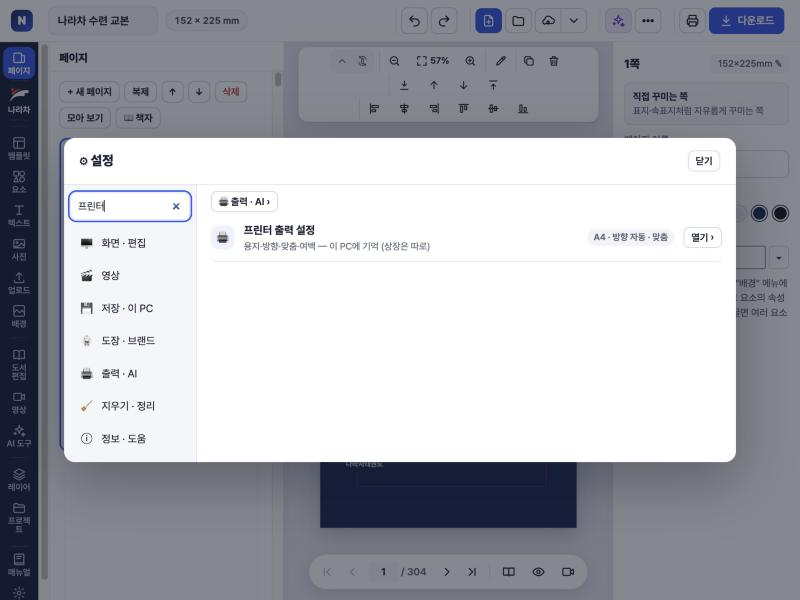
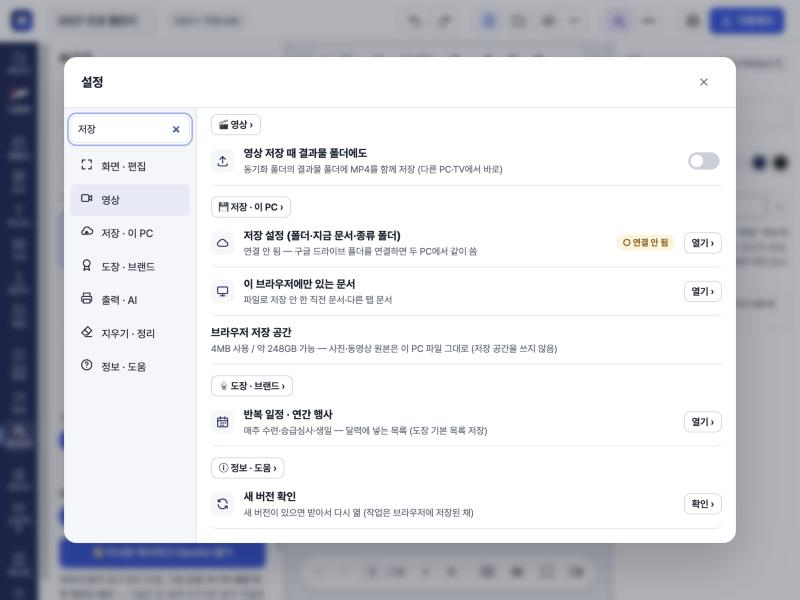
매뉴얼 그림 새 화면으로(AI 도구 탭·설정 찾기), 작업인계 (20261124.1041)

diff --git a/manual.js b/manual.js
@@ -15,7 +15,7 @@ window.NC_MANUAL = [
       { t: '내 PC에 맞게 설정', d: '세로 메뉴 맨 아래 <b>⚙ 설정</b>에서 이 PC 이름, 동기화 폴더, 안내선·눈금자, 영상 보기 방식 등을 한곳에서 바꿉니다. 바꾸면 바로 적용됩니다.', img: 'm18-settings.jpg',
         marks: [[20.6, 43, '설정 분류'], [78.5, 38.2, '이 PC 이름 (예: 도장 PC)'], [82.8, 46.8, '동기화 폴더 — 두 PC에서 같이 쓰기'], [82.8, 55.9, '버전 기록 — 예전 상태 되살리기']], go: [['settings', '설정 열기']] },
       { t: '⚙ 설정 — 찾기·지금 상태·줄 누르기', d: '세로 메뉴 맨 아래 <b>⚙ 설정</b>. 왼쪽 위 <b>🔍 설정 찾기</b>에 「프린터」「자석」「저장」처럼 쓰면 모든 칸에서 맞는 줄만 모아 보여 줍니다. 줄마다 그림과 <b>지금 상태</b>(● 연결됨·○ 연결 안 됨·A4 · 방향 자동 · 맞춤 등)가 붙어 있고, <b>줄 어디를 눌러도</b> 열립니다. 도움말·매뉴얼·도장 정보·출력 설정 같은 창을 열었다 닫으면 <b>설정의 같은 칸으로 돌아옵니다</b>. 마지막으로 본 칸을 기억하고, ↑↓ 키로 칸을 옮깁니다. 저장 설정·AI 설정·도장 정보·반복 일정·공휴일·출력 창 맨 위에는 <b>📍 지금</b> 줄이 있어 지금 어떻게 되어 있는지 보이고, <b>⚠</b>가 뜨면 아직 저장·적용하지 않은 변경이 있다는 뜻입니다(그대로 닫으려 하면 한 번 묻습니다). 화면이 헝클어지면 화면·편집 칸의 <b>↩ 화면 설정 모두 처음대로</b>(문서는 그대로).', img: 'm73-settings-find.jpg',
-        marks: [[16, 34.3, '설정 찾기'], [50, 39.7, '찾은 줄 — 눌러서 열기'], [78.8, 39.7, '지금 상태']], go: [['settings', '설정 열기']] }
+        marks: [[16.3, 21.6, '설정 찾기'], [50, 40.5, '찾은 줄 — 눌러서 열기'], [80.5, 40.3, '지금 상태'], [88, 13.5, '닫기 ×']], go: [['settings', '설정 열기']] }
     ] },
   { id: 'cert', icon: '🏅', title: '측정·심사 뒤 상장 만들고 출력하기', when: '측정·심사 뒤', sum: '관리 프로그램의 측정 기록으로 향상왕 상장을 한꺼번에 만들고, A4 상장 용지에 출력합니다.',
     steps: [
@@ -192,8 +192,8 @@ window.NC_MANUAL = [
     ] },
   { id: 'aiquick', icon: '✨', title: 'AI로 필요한 부분만 빠르게 (그림·스티커·아이콘·PPT 배경·글 다듬기)', when: '그림·요소가 필요할 때', sum: 'AI가 디자인 전체를 대신하지 않고, 그림·스티커·아이콘·PPT 배경·발표자료 개요·글 다듬기처럼 필요한 부분만 빠르게 만들어 후보로 보여 줍니다. 고르면 바로 넣고, 마음에 안 들면 Ctrl+Z.',
     steps: [
-      { t: '「AI 도구」 — 무엇을 만들까요?', d: '세로 메뉴 <b>AI 도구</b>를 누르면 한 화면에서 고릅니다: 🖼 <b>그림</b>(그림체·모양 고르기) · 🐧 <b>라차</b>(동작 고르기) · ✨ <b>스티커</b>(투명 바탕 4장) · 🔷 <b>아이콘</b>(선 아이콘 8개 — 가장 빠름) · 🎞 <b>PPT 배경</b>(16:9, 왼쪽에 글자 자리) · 📊 <b>발표자료</b>. 한 줄로 쓰고 큰 단추를 누릅니다. 태권도 그림은 늘 「태권도 V깃 도복·유급자 빨강/검정 깃·글자·로고 없음」 원칙이 지시문에 들어갑니다. 예전 화면(그림 스튜디오·인성 문구·AI와 대화·AI 설정)은 아래 「더보기」에 있습니다.', img: 'm74-ai-panel.jpg',
-        marks: [[20.8, 30, '무엇을 만들지 고르기'], [20.8, 46, '한 줄로 쓰기'], [20, 58.3, '그림체'], [20.6, 70.8, '모양(정사각·세로·가로)'], [20.8, 77, '만들기 / 지시문 복사'], [20.8, 91.7, '더보기']], go: [['aitools', 'AI 도구 열기']] },
+      { t: '「AI 도구」 — 무엇을 만들까요?', d: '세로 메뉴 <b>AI 도구</b>를 누르면 한 화면에서 고릅니다: 🖼 <b>그림</b>(그림체·모양 고르기) · 🐧 <b>라차</b>(동작 고르기) · ✨ <b>스티커</b>(투명 바탕 4장) · 🔷 <b>아이콘</b>(선 아이콘 8개 — 가장 빠름) · 🎞 <b>PPT 배경</b>(16:9, 왼쪽에 글자 자리) · 📊 <b>발표자료</b>. 한 줄로 쓰고 큰 단추를 누릅니다. 태권도 그림은 늘 「태권도 V깃 도복·유급자 빨강/검정 깃·글자·로고 없음」 원칙이 지시문에 들어갑니다. 패널 위 탭으로 <b>✨ 만들기</b>와 <b>💬 AI와 대화</b>를 바꾸고, 그 아래 줄에 🎨 그림 스튜디오 · 🐧 라차 동작 · 🖌 이미지 편집기 · ⚙ AI 설정이 있습니다(오른쪽 위 「AI 도우미」 단추도 이 패널을 엶).', img: 'm74-ai-panel.jpg',
+        marks: [[20.3, 16, '만들기 · AI와 대화 탭'], [20.3, 23.2, '스튜디오·라차·편집기·설정'], [20.3, 45.2, '무엇을 만들지 고르기'], [20.3, 61.4, '한 줄로 쓰기'], [20.3, 75.6, '그림체'], [20.3, 86.1, '모양'], [20.3, 92.1, '만들기 / 지시문 복사']], go: [['aitools', 'AI 도구 열기']] },
       { t: '채팅 요금제로 쓰기 — 답은 ⌘V 한 번', d: '처음 설정(채팅 요금제)에서는 큰 단추가 <b>「📋 지시문 복사하고 Gemini/Claude 열기」</b>입니다. 열린 채팅 칸에 ⌘V로 붙여 넣고 보낸 뒤, 답(그림 또는 글)을 복사해 <b>공방 아무 데서나 ⌘V</b> 하면 됩니다 — 붙여 넣을 칸을 찾을 필요가 없어요. 그림·스티커는 한 장에 4가지로 받아 <b>저절로 4장으로 잘라</b> 후보로 보여 주고, 스티커는 흰 바탕도 지웁니다. 오른쪽 아래 <b>작업 칸</b>에 「채팅 답을 기다려요 / 만드는 중… / ✅ 도착」이 보이고, 기다리는 동안 편집은 계속하셔도 됩니다. 후보를 누르면 쪽에 넣고, <b>Shift+누르기·길게 누르기</b>는 지금 쪽 배경으로 깝니다. API 키를 넣어 두면(AI 설정) 단추 한 번으로 바로 만들어집니다.', img: 'm75-ai-icons.jpg',
         marks: [[20, 80, '후보 — 누르면 넣기'], [87.5, 87.3, '작업 칸'], [50, 87.3, '알림']], go: [['aitools', 'AI 도구 열기']] },
       { t: '글 다듬기 — 고른 글 옆 ✨ AI', d: '글 상자를 고르면 위 글자 막대 끝에 <b>✨ AI</b>가 있습니다. ✔ 맞춤법 · ✂ 짧게 · ➕ 길게 · 🧒 쉽게(아이들) · 🙇 공손하게(학부모님께) · 🌐 영어로 중 하나를 누르면 후보 3개가 나오고, 누르면 바꿔 넣습니다(Ctrl+Z로 되돌리기). 여러 글 상자를 함께 고르면 한 번에 다듬습니다.', img: 'm77-ai-rewrite.jpg',

diff --git a/index.html b/index.html
@@ -16,7 +16,7 @@
 <meta property="og:image" content="https://narachadata.github.io/design/og.png">
 <meta property="og:type" content="website">
 <link rel="stylesheet" href="fonts/fonts.css?v=20261120.1357">
-<link rel="stylesheet" href="app.css?v=20261124.1037">
+<link rel="stylesheet" href="app.css?v=20261124.1041">
 </head>
 <body>
 <svg width="0" height="0" style="position:absolute" aria-hidden="true"><defs>
@@ -214,37 +214,37 @@
 <style id="pageStyle"></style>
 <div class="toast" id="toast" popover="manual" hidden></div>
 
-<script src="version.js?v=20261124.1037"></script>
-<script src="fonts/fonts.js?v=20261124.1037"></script>
-<script src="fonts/webfonts.js?v=20261124.1037"></script>
-<script src="assets.js?v=20261124.1037"></script>
-<script src="assets-brand.js?v=20261124.1037"></script>
-<script src="defaults.js?v=20261124.1037"></script>
-<script src="ai.js?v=20261124.1037"></script>
-<script src="storage.js?v=20261124.1037"></script>
-<script src="live.js?v=20261124.1037"></script>
-<script src="lib.js?v=20261124.1037"></script>
-<script src="calendar.js?v=20261124.1037"></script>
-<script src="templates.js?v=20261124.1037"></script>
-<script src="templates2.js?v=20261124.1037"></script>
-<script src="templates3.js?v=20261124.1037"></script>
-<script src="templates4.js?v=20261124.1037"></script>
-<script src="templates5.js?v=20261124.1037"></script>
-<script src="templates6.js?v=20261124.1037"></script>
-<script src="templates7.js?v=20261124.1037"></script>
-<script src="effects.js?v=20261124.1037"></script>
-<script src="imgedit.js?v=20261124.1037"></script>
-<script src="elements.js?v=20261124.1037"></script>
-<script src="news.js?v=20261124.1037"></script>
-<script src="astream.js?v=20261124.1037"></script>
-<script src="media.js?v=20261124.1037"></script>
-<script src="vtemplates.js?v=20261124.1037"></script>
-<script src="video.js?v=20261124.1037"></script>
-<script src="manual.js?v=20261124.1037"></script>
-<script src="aichat.js?v=20261124.1037"></script>
-<script src="aistudio.js?v=20261124.1037"></script>
-<script src="book.js?v=20261124.1037"></script>
-<script src="import.js?v=20261124.1037"></script>
-<script src="app.js?v=20261124.1037"></script>
+<script src="version.js?v=20261124.1041"></script>
+<script src="fonts/fonts.js?v=20261124.1041"></script>
+<script src="fonts/webfonts.js?v=20261124.1041"></script>
+<script src="assets.js?v=20261124.1041"></script>
+<script src="assets-brand.js?v=20261124.1041"></script>
+<script src="defaults.js?v=20261124.1041"></script>
+<script src="ai.js?v=20261124.1041"></script>
+<script src="storage.js?v=20261124.1041"></script>
+<script src="live.js?v=20261124.1041"></script>
+<script src="lib.js?v=20261124.1041"></script>
+<script src="calendar.js?v=20261124.1041"></script>
+<script src="templates.js?v=20261124.1041"></script>
+<script src="templates2.js?v=20261124.1041"></script>
+<script src="templates3.js?v=20261124.1041"></script>
+<script src="templates4.js?v=20261124.1041"></script>
+<script src="templates5.js?v=20261124.1041"></script>
+<script src="templates6.js?v=20261124.1041"></script>
+<script src="templates7.js?v=20261124.1041"></script>
+<script src="effects.js?v=20261124.1041"></script>
+<script src="imgedit.js?v=20261124.1041"></script>
+<script src="elements.js?v=20261124.1041"></script>
+<script src="news.js?v=20261124.1041"></script>
+<script src="astream.js?v=20261124.1041"></script>
+<script src="media.js?v=20261124.1041"></script>
+<script src="vtemplates.js?v=20261124.1041"></script>
+<script src="video.js?v=20261124.1041"></script>
+<script src="manual.js?v=20261124.1041"></script>
+<script src="aichat.js?v=20261124.1041"></script>
+<script src="aistudio.js?v=20261124.1041"></script>
+<script src="book.js?v=20261124.1041"></script>
+<script src="import.js?v=20261124.1041"></script>
+<script src="app.js?v=20261124.1041"></script>
 </body>
 </html>

diff --git a/version.js b/version.js
@@ -1,1 +1,1 @@
-window.NARACAL_VER = "20261124.1037";
+window.NARACAL_VER = "20261124.1041";

diff --git a/작업인계.md b/작업인계.md
@@ -1651,6 +1651,9 @@
 ## 2026-11-24 오전 (16) — 끌기 2차: 끄는 동안 그림만 옮김 (팀장님 "다음 작업도 멈추지 말고" — 남은 다듬기)
 - app.js `dragShift(d)`: 옮기기 끌기 동안 요소의 left/top을 바꾸지 않고 CSS `translate`(+ will-change)만 — 배치 다시 계산 없이 화면 합성으로 움직임, 회전 transform과 따로. 모델 값(el.x·y)·맞춤선·선택 상자(`dragOverlay`)는 그대로 계산. 놓으면 `rerender`로 새 left/top이 들어가며 translate는 사라짐(옆 쪽 놓기·Esc 취소도 다시 그림). 시험: 끄는 중 translate 22mm 11mm·left 그대로·선택 상자 일치, 놓은 뒤 left 152mm·translate 없음, Esc 취소 → 130mm 그대로.
 
+## 2026-11-24 오전 (17) — 매뉴얼 그림 새 화면으로 (팀장님 "다음 작업 계속")
+- 오늘 바뀐 화면의 매뉴얼 그림 다시 찍음: m74(AI 도구 — 만들기·AI와 대화 탭·도구 줄, 번호 7개를 실제 요소 자리에서 재서 고침), m73(설정 찾기 「저장」 — 선 아이콘·× 닫기·옅은 고른 표시, 번호 자리 고침). AI 도구 설명 글도 탭·도구 줄로.
+
 # ▶ 다음에 이어 하기 (2026-11-20 낮 작업 종료 — 팀장님은 도장 PC에서 이어 하심)
 1. `git pull` → 이 문서를 읽고 팀장님께 한글로 브리핑 → 아래 남은 일부터.
 2. 오늘(11/20) 한 일 요약: 홍익 삽화 12장·표지·상징 · 휴관 카드 「라차 그림」 13종·승급심사 라차 그림 · 모든 라차 그림 가슴 로고 · 유급자 깃(바깥 빨강·안쪽 검정) 칠하기 · 도복 프롬프트 원칙(문서 3개·AI 스튜디오·메모리) · **2027 PC·휴대폰 배경화면 캘린더** · 2027 문서 덕목 차례 자동 맞춤 · 그림 캐시 버전 · 도구 막대 세로/접기 · Gemini 503 재시도.
